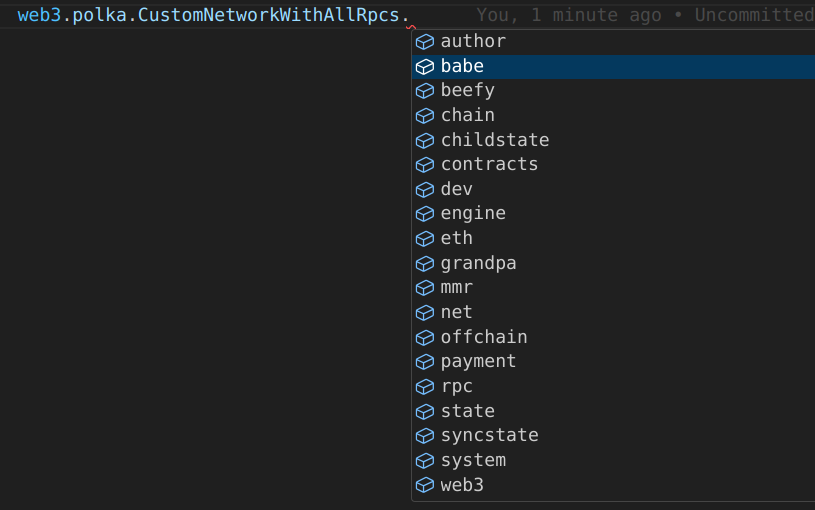
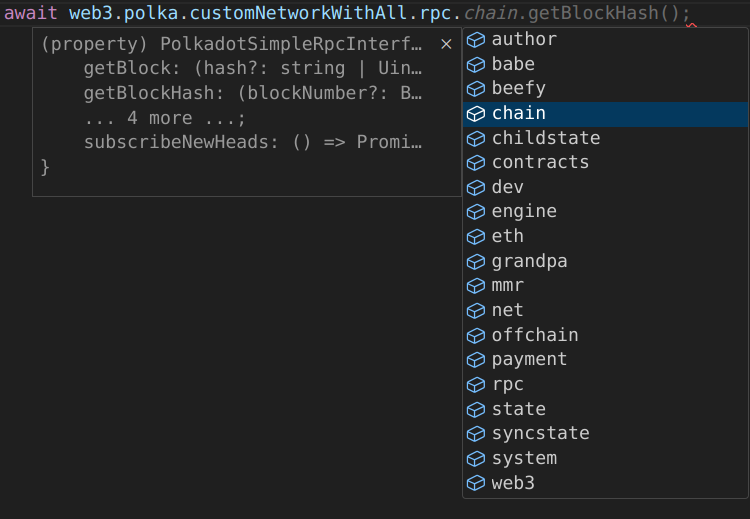
version 0.0.1-alpha.19 - restructure the rpc methods to be under `rpc` name space - enhance rcp methods type at generator method - show test coverage and full test report - update tests - add and update screenshots - update README.md

Changed region(s): [[0.0, 0.0, 1.0, 0.9706], [0.092, 0.2647, 0.368, 0.2941], [0.0307, 0.2941, 0.0613, 0.3529]]

diff --git a/projects/32-web3-plugin-polkadot/src/polka-plugin.ts b/projects/32-web3-plugin-polkadot/src/polka-plugin.ts
@@ -12,9 +12,9 @@ import {
   SubstrateRpcInterfaceFlatFiltered,
 } from './types/web3.js-friendly/simple-rpc-interfaces-flat-filtered';
 
-import { PolkadotSupportedRpcMethods } from './types/polkadot/supported-rpc-methods';
-import { KusamaSupportedRpcMethods } from './types/kusama/supported-rpc-methods';
-import { SubstrateSupportedRpcMethods } from './types/substrate/supported-rpc-methods';
+import { PolkadotSupportedRpcMethods } from './types/constants/polkadot-supported-rpc-methods';
+import { KusamaSupportedRpcMethods } from './types/constants/kusama-supported-rpc-methods';
+import { SubstrateSupportedRpcMethods } from './types/constants/substrate-supported-rpc-methods';
 import { Filter } from './types/web3.js-friendly/filter-transformers';
 import { SubstrateSimpleRpcInterface } from './interfaces/substrate/augment-api-rpc';
 
@@ -60,7 +60,7 @@ export class PolkaPlugin extends Web3PluginBase<
       ...
    * ```
    */
-  private createRpcMethods(supportedRpcs: readonly string[]) {
+  private createRpcMethods<T>(supportedRpcs: readonly string[]) {
     const returnedRpcMethods: Record<string, any> = {};
     const objectKeys = supportedRpcs.map((rpc) => rpc.split('_', 2)[0]);
     for (let rpcNamespace of objectKeys) {
@@ -78,7 +78,7 @@ export class PolkaPlugin extends Web3PluginBase<
       }
       returnedRpcMethods[rpcNamespace] = endPoints;
     }
-    return returnedRpcMethods;
+    return returnedRpcMethods as T;
   }
 
   // The following commented code contains experiments with using index signature instead of using the method `createRpcMethods`.
@@ -110,15 +110,21 @@ export class PolkaPlugin extends Web3PluginBase<
   //   }
   // };
 
-  public polkadot: PolkadotSimpleRpcInterfaceFiltered;
-  public kusama: KusamaSimpleRpcInterfaceFiltered;
-  public substrate: SubstrateSimpleRpcInterfaceFiltered;
+  public polkadot: { rpc: PolkadotSimpleRpcInterfaceFiltered };
+  public kusama: { rpc: KusamaSimpleRpcInterfaceFiltered };
+  public substrate: { rpc: SubstrateSimpleRpcInterfaceFiltered };
 
   constructor() {
     super();
-    this.polkadot = this.createRpcMethods(PolkadotSupportedRpcMethods) as PolkadotSimpleRpcInterfaceFiltered;
-    this.kusama = this.createRpcMethods(KusamaSupportedRpcMethods) as KusamaSimpleRpcInterfaceFiltered;
-    this.substrate = this.createRpcMethods(SubstrateSupportedRpcMethods) as SubstrateSimpleRpcInterfaceFiltered;
+    this.polkadot = {
+      rpc: this.createRpcMethods(PolkadotSupportedRpcMethods),
+    };
+    this.kusama = {
+      rpc: this.createRpcMethods(KusamaSupportedRpcMethods),
+    };
+    this.substrate = {
+      rpc: this.createRpcMethods(SubstrateSupportedRpcMethods),
+    };
   }
 
   /**
@@ -139,11 +145,11 @@ export class PolkaPlugin extends Web3PluginBase<
     web3: Web3,
     pluginNamespace: NameSpace,
     supportedRpcs: TypeOfSupportedRpcs
-  ): Web3 & { polka: Record<NameSpace, Filter<T, typeof supportedRpcs>> } {
-    (this as any)[pluginNamespace] = this.createRpcMethods(supportedRpcs) as any;
+  ): Web3 & { polka: Record<NameSpace, { rpc: Filter<T, typeof supportedRpcs> }> } {
+    (this as any)[pluginNamespace] = { rpc: this.createRpcMethods(supportedRpcs) };
 
     web3.registerPlugin(this);
-    return web3 as Web3 & { polka: Record<NameSpace, Filter<T, typeof supportedRpcs>> };
+    return web3 as Web3 & { polka: Record<NameSpace, { rpc: Filter<T, typeof supportedRpcs> }> };
   }
 }
 
@@ -151,9 +157,15 @@ export class PolkaPlugin extends Web3PluginBase<
 declare module 'web3' {
   interface Web3 {
     polka: {
-      polkadot: PolkadotSimpleRpcInterfaceFiltered;
-      kusama: KusamaSimpleRpcInterfaceFiltered;
-      substrate: SubstrateSimpleRpcInterfaceFiltered;
+      polkadot: {
+        rpc: PolkadotSimpleRpcInterfaceFiltered;
+      };
+      kusama: {
+        rpc: KusamaSimpleRpcInterfaceFiltered;
+      };
+      substrate: {
+        rpc: SubstrateSimpleRpcInterfaceFiltered;
+      };
     };
   }
 }

diff --git a/projects/32-web3-plugin-polkadot/test/fixtures/limited-rpc-list.ts b/projects/32-web3-plugin-polkadot/test/fixtures/limited-rpc-list.ts
@@ -3,18 +3,6 @@
  * Such a list is supposed to be generated by a custom configuration with `typegen`.
  */
 export const LimitedRpcList = {
-  author: [
-    'hasKey',
-    'hasSessionKeys',
-    'insertKey',
-    'pendingExtrinsics',
-    'removeExtrinsic',
-    'rotateKeys',
-    'submitAndWatchExtrinsic',
-    'submitExtrinsic',
-  ],
-  babe: ['epochAuthorship'],
-  beefy: ['getFinalizedHead', 'subscribeJustifications'],
   chain: [
     'getBlock',
     'getBlockHash',
@@ -24,85 +12,6 @@ export const LimitedRpcList = {
     'subscribeFinalizedHeads',
     'subscribeNewHeads',
   ],
-  childstate: ['getKeys', 'getKeysPaged', 'getStorage', 'getStorageEntries', 'getStorageHash', 'getStorageSize'],
-  contracts: ['call', 'getStorage', 'instantiate', 'rentProjection', 'uploadCode'],
-  dev: ['getBlockStats'],
-  engine: ['createBlock', 'finalizeBlock'],
-  eth: [
-    'accounts',
-    'blockNumber',
-    'call',
-    'chainId',
-    'coinbase',
-    'estimateGas',
-    'feeHistory',
-    'gasPrice',
-    'getBalance',
-    'getBlockByHash',
-    'getBlockByNumber',
-    'getBlockTransactionCountByHash',
-    'getBlockTransactionCountByNumber',
-    'getCode',
-    'getFilterChanges',
-    'getFilterLogs',
-    'getLogs',
-    'getProof',
-    'getStorageAt',
-    'getTransactionByBlockHashAndIndex',
-    'getTransactionByBlockNumberAndIndex',
-    'getTransactionByHash',
-    'getTransactionCount',
-    'getTransactionReceipt',
-    'getUncleByBlockHashAndIndex',
-    'getUncleByBlockNumberAndIndex',
-    'getUncleCountByBlockHash',
-    'getUncleCountByBlockNumber',
-    'getWork',
-    'hashrate',
-    'maxPriorityFeePerGas',
-    'mining',
-    'newBlockFilter',
-    'newFilter',
-    'newPendingTransactionFilter',
-    'protocolVersion',
-    'sendRawTransaction',
-    'sendTransaction',
-    'submitHashrate',
-    'submitWork',
-    'subscribe',
-    'syncing',
-    'uninstallFilter',
-  ],
-  grandpa: ['proveFinality', 'roundState', 'subscribeJustifications'],
-  mmr: ['generateProof', 'root', 'verifyProof', 'verifyProofStateless'],
-  net: ['listening', 'peerCount', 'version'],
-  offchain: ['localStorageGet', 'localStorageSet'],
-  payment: ['queryFeeDetails', 'queryInfo'],
-  rpc: ['methods'],
-  state: [
-    'call',
-    'getChildKeys',
-    'getChildReadProof',
-    'getChildStorage',
-    'getChildStorageHash',
-    'getChildStorageSize',
-    'getKeys',
-    'getKeysPaged',
-    'getMetadata',
-    'getPairs',
-    'getReadProof',
-    'getRuntimeVersion',
-    'getStorage',
-    'getStorageHash',
-    'getStorageSize',
-    'queryStorage',
-    'queryStorageAt',
-    'subscribeRuntimeVersion',
-    'subscribeStorage',
-    'traceBlock',
-    'trieMigrationStatus',
-  ],
-  syncstate: ['genSyncSpec'],
   system: [
     'accountNextIndex',
     'addLogFilter',
@@ -124,5 +33,4 @@ export const LimitedRpcList = {
     'syncState',
     'version',
   ],
-  web3: ['clientVersion', 'sha3'],
 } as const;

diff --git a/projects/32-web3-plugin-polkadot/test/polka-plugin-custom.test.ts b/projects/32-web3-plugin-polkadot/test/polka-plugin-custom.test.ts
@@ -1,24 +1,25 @@
 import { Web3 } from 'web3';
 import { PolkaPlugin } from '../src';
 import { SubstrateSimpleRpcInterface } from '../src/interfaces/substrate/augment-api-rpc';
-import { MyCustomNetworkRpcMethods } from './fixtures/limited-rpc-methods';
+import { MyLimitedNodeRpcMethods } from './fixtures/limited-rpc-methods';
 
 describe('PolkaPlugin Custom Provider Tests', () => {
   it('should be able to register custom rpc methods at a custom namespace inside the plugin', async () => {
     const polka = new PolkaPlugin();
     // there would be some work later to enhance the typescript types for this.
-    const web3 = polka.registerAt<'MyCustomNetwork', typeof MyCustomNetworkRpcMethods, SubstrateSimpleRpcInterface>(
+    const web3 = polka.registerAt<'myLimitedNode', typeof MyLimitedNodeRpcMethods, SubstrateSimpleRpcInterface>(
       new Web3('ws://127.0.0.1:9944/'),
-      'MyCustomNetwork',
-      MyCustomNetworkRpcMethods
+      'myLimitedNode',
+      MyLimitedNodeRpcMethods
     );
     web3.provider?.on('error', (error: any) => {
       console.log('Caught provider error: ', error.message || error);
     });
-    expect((web3.polka.MyCustomNetwork as any).author).toBeUndefined();
-    expect(web3.polka.MyCustomNetwork.chain).toBeDefined();
 
-    const response = await web3.polka.substrate.chain.getBlock(/*hash*/);
+    expect((web3.polka.myLimitedNode.rpc as any)?.author).toBeUndefined();
+    expect(web3.polka.myLimitedNode.rpc.chain).toBeDefined();
+
+    const response = await web3.polka.substrate.rpc.chain.getBlock(/*hash*/);
     expect(response).toBeDefined();
     expect(response.block).toBeDefined();
     expect(typeof response.block.header.stateRoot).toBe('string');

diff --git a/projects/32-web3-plugin-polkadot/test/web3.polka.substrate.test.ts b/projects/32-web3-plugin-polkadot/test/web3.polka.substrate.test.ts
@@ -24,7 +24,7 @@ describe('test some RPC methods at web3.polka.substrate', () => {
 
   it('should call chain.getBlock method', async () => {
[1 lines of base64/hex data omitted]
-    const response = await web3.polka.substrate.chain.getBlock(/*hash*/);
+    const response = await web3.polka.substrate.rpc.chain.getBlock(/*hash*/);
     expect(response).toBeDefined();
     expect(response.block).toBeDefined();
     expect(typeof response.block.header.stateRoot).toBe('string');
@@ -48,16 +48,18 @@ describe('test some RPC methods at web3.polka.substrate', () => {
   });
 
   it('should chain.getBlock() equals chain.getBlock(chain.getBlockHash(latestBlocHash))', async () => {
-    const latestBlock = await web3.polka.substrate.chain.getBlock();
-    const latestBlocHash = await web3.polka.substrate.chain.getBlockHash(latestBlock.block.header.number.toString());
-    const blockByLatestBlocHash = await web3.polka.substrate.chain.getBlock(latestBlocHash);
+    const latestBlock = await web3.polka.substrate.rpc.chain.getBlock();
+    const latestBlocHash = await web3.polka.substrate.rpc.chain.getBlockHash(
+      latestBlock.block.header.number.toString()
+    );
+    const blockByLatestBlocHash = await web3.polka.substrate.rpc.chain.getBlock(latestBlocHash);
 
     expect(blockByLatestBlocHash).toBeDefined();
     expect(blockByLatestBlocHash).toEqual(latestBlock);
   });
 
   it('should get the rpc methods', async () => {
-    const response = await web3.polka.substrate.rpc.methods();
+    const response = await web3.polka.substrate.rpc.rpc.methods();
 
     expect(response).toBeDefined();
 

diff --git a/projects/32-web3-plugin-polkadot/test/web3.polka.polkadot.test.ts b/projects/32-web3-plugin-polkadot/test/web3.polka.polkadot.test.ts
@@ -18,7 +18,7 @@ describe('test some RPC methods at web3.polka.polkadot', () => {
 
   it('should call chain.getBlock method', async () => {
[1 lines of base64/hex data omitted]
-    const response = await web3.polka.polkadot.chain.getBlock(/*hash*/);
+    const response = await web3.polka.polkadot.rpc.chain.getBlock(/*hash*/);
     expect(response).toBeDefined();
     expect(response.block).toBeDefined();
     expect(typeof response.block.header.stateRoot).toBe('string');
@@ -41,16 +41,16 @@ describe('test some RPC methods at web3.polka.polkadot', () => {
   });
 
   it('should chain.getBlock() equals chain.getBlock(chain.getBlockHash(latestBlocHash))', async () => {
-    const latestBlock = await web3.polka.polkadot.chain.getBlock();
-    const latestBlocHash = await web3.polka.polkadot.chain.getBlockHash(latestBlock.block.header.number.toString());
-    const blockByLatestBlocHash = await web3.polka.polkadot.chain.getBlock(latestBlocHash);
+    const latestBlock = await web3.polka.polkadot.rpc.chain.getBlock();
+    const latestBlocHash = await web3.polka.polkadot.rpc.chain.getBlockHash(latestBlock.block.header.number.toString());
+    const blockByLatestBlocHash = await web3.polka.polkadot.rpc.chain.getBlock(latestBlocHash);
 
     expect(blockByLatestBlocHash).toBeDefined();
     expect(blockByLatestBlocHash).toEqual(latestBlock);
   });
 
   it('should get the rpc methods', async () => {
-    const response = await web3.polka.polkadot.rpc.methods();
+    const response = await web3.polka.polkadot.rpc.rpc.methods();
 
     expect(response).toBeDefined();
 

diff --git a/projects/32-web3-plugin-polkadot/test/web3.polka.kusama.test.ts b/projects/32-web3-plugin-polkadot/test/web3.polka.kusama.test.ts
@@ -18,7 +18,7 @@ describe('test some RPC methods at web3.polka.kusama', () => {
 
   it('should call chain.getBlock method', async () => {
[1 lines of base64/hex data omitted]
-    const response = await web3.polka.kusama.chain.getBlock(/*hash*/);
+    const response = await web3.polka.kusama.rpc.chain.getBlock(/*hash*/);
     expect(response).toBeDefined();
     expect(response.block).toBeDefined();
     expect(typeof response.block.header.stateRoot).toBe('string');
@@ -41,16 +41,16 @@ describe('test some RPC methods at web3.polka.kusama', () => {
   });
 
   it('should chain.getBlock() equals chain.getBlock(chain.getBlockHash(latestBlocHash))', async () => {
-    const latestBlock = await web3.polka.kusama.chain.getBlock();
-    const latestBlocHash = await web3.polka.kusama.chain.getBlockHash(latestBlock.block.header.number.toString());
-    const blockByLatestBlocHash = await web3.polka.kusama.chain.getBlock(latestBlocHash);
+    const latestBlock = await web3.polka.kusama.rpc.chain.getBlock();
+    const latestBlocHash = await web3.polka.kusama.rpc.chain.getBlockHash(latestBlock.block.header.number.toString());
+    const blockByLatestBlocHash = await web3.polka.kusama.rpc.chain.getBlock(latestBlocHash);
 
     expect(blockByLatestBlocHash).toBeDefined();
     expect(blockByLatestBlocHash).toEqual(latestBlock);
   });
 
   it('should get the rpc methods', async () => {
-    const response = await web3.polka.kusama.rpc.methods();
+    const response = await web3.polka.kusama.rpc.rpc.methods();
 
     expect(response).toBeDefined();
 

diff --git a/projects/32-web3-plugin-polkadot/test/polka-plugin.test.ts b/projects/32-web3-plugin-polkadot/test/polka-plugin.test.ts
@@ -32,13 +32,13 @@ describe('PolkaPlugin Tests', () => {
 
     it('should throw `InvalidResponseError` when the method is not supported by the provider (simulated)', async () => {
       // simulate calling a method that is not supported by the provider
-      web3.polka.substrate.chain.getBlock = () =>
+      web3.polka.substrate.rpc.chain.getBlock = () =>
         web3.requestManager.send({
           method: `unsupported_method_by the provider`,
         });
 
       try {
-        await web3.polka.substrate.chain.getBlock();
+        await web3.polka.substrate.rpc.chain.getBlock();
         expect(true).toBe(false);
       } catch (error) {
         expect(error).toBeInstanceOf(InvalidResponseError);
@@ -49,7 +49,7 @@ describe('PolkaPlugin Tests', () => {
     it('should throw `InvalidResponseError` when the method is not supported by the provider (calling polkadot method at substrate node)', async () => {
       try {
         // the connected provider is a substrate node and does not support this polkadot method
-        await web3.polka.polkadot.beefy.getFinalizedHead();
+        await web3.polka.polkadot.rpc.beefy.getFinalizedHead();
         expect(true).toBe(false);
       } catch (error) {
         expect(error).toBeInstanceOf(InvalidResponseError);

diff --git a/projects/32-web3-plugin-polkadot/src/types/web3.js-friendly/simple-rpc-interfaces-filtered.ts b/projects/32-web3-plugin-polkadot/src/types/web3.js-friendly/simple-rpc-interfaces-filtered.ts
@@ -2,9 +2,9 @@ import { PolkadotSimpleRpcInterface } from '../../interfaces/polkadot/augment-ap
 import { KusamaSimpleRpcInterface } from '../../interfaces/kusama/augment-api-rpc';
 import { SubstrateSimpleRpcInterface } from '../../interfaces/substrate/augment-api-rpc';
 
-import { KusamaSupportedRpcMethods } from '../kusama/supported-rpc-methods';
-import { PolkadotSupportedRpcMethods } from '../polkadot/supported-rpc-methods';
-import { SubstrateSupportedRpcMethods } from '../substrate/supported-rpc-methods';
+import { KusamaSupportedRpcMethods } from '../constants/kusama-supported-rpc-methods';
+import { PolkadotSupportedRpcMethods } from '../constants/polkadot-supported-rpc-methods';
+import { SubstrateSupportedRpcMethods } from '../constants/substrate-supported-rpc-methods';
 import { Filter } from './filter-transformers';
 
 export type PolkadotSimpleRpcInterfaceFiltered = Filter<PolkadotSimpleRpcInterface, typeof PolkadotSupportedRpcMethods>;

diff --git a/projects/32-web3-plugin-polkadot/src/types/web3.js-friendly/simple-rpc-interfaces-flat-filtered.ts b/projects/32-web3-plugin-polkadot/src/types/web3.js-friendly/simple-rpc-interfaces-flat-filtered.ts
@@ -4,9 +4,9 @@
 // And there is no need to change them to the modified ones. However, this can be changed later if needed.
 import { PolkadotRpcInterface, KusamaRpcInterface, SubstrateRpcInterface } from '@polkadot/rpc-core/types/jsonrpc';
 
-import { KusamaSupportedRpcMethods } from '../kusama/supported-rpc-methods';
-import { PolkadotSupportedRpcMethods } from '../polkadot/supported-rpc-methods';
-import { SubstrateSupportedRpcMethods } from '../substrate/supported-rpc-methods';
+import { KusamaSupportedRpcMethods } from '../constants/kusama-supported-rpc-methods';
+import { PolkadotSupportedRpcMethods } from '../constants/polkadot-supported-rpc-methods';
+import { SubstrateSupportedRpcMethods } from '../constants/substrate-supported-rpc-methods';
 import { FlattenerFilter } from './flattener-filter-transformers';
 
 export type PolkadotRpcInterfaceFlatFiltered = FlattenerFilter<

diff --git a/projects/32-web3-plugin-polkadot/test/fixtures/limited-rpc-methods.ts b/projects/32-web3-plugin-polkadot/test/fixtures/limited-rpc-methods.ts
@@ -9,7 +9,7 @@
   console.log(JSON.stringify(response.methods, null, 2));
   ```
  */
-export const MyCustomNetworkRpcMethods = [
+export const MyLimitedNodeRpcMethods = [
   'chain_getBlock',
   'chain_getBlockHash',
   'chain_getFinalisedHead',

diff --git a/projects/32-web3-plugin-polkadot/jest.config.js b/projects/32-web3-plugin-polkadot/jest.config.js
@@ -2,4 +2,9 @@
 module.exports = {
   preset: "ts-jest",
   testEnvironment: "node",
+  verbose: true,
+  collectCoverageFrom: [
+    "src/**/*.*",
+    '!src/interfaces/**/*.*',
+  ],
 };
